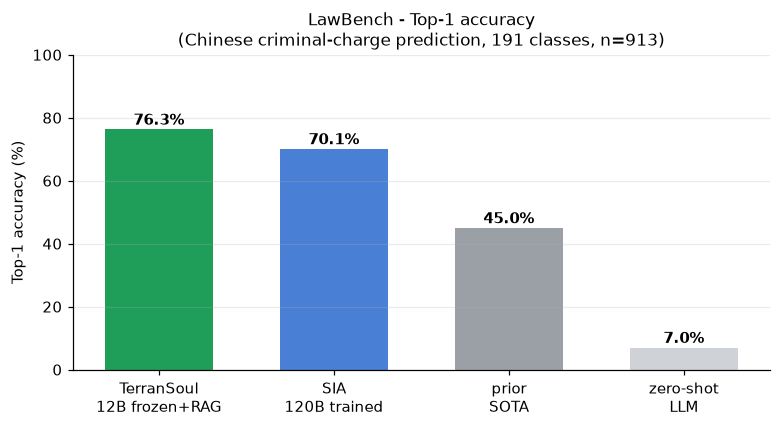
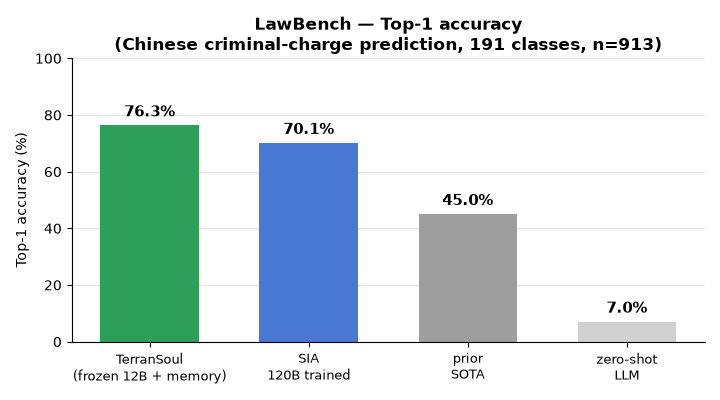
chore: mirror HTML docs + benchmark from TerranSoulApp@9d9633b

diff --git a/docs/LLM-Brain-Design-Research-Paper/index.html b/docs/LLM-Brain-Design-Research-Paper/index.html
@@ -303,7 +303,7 @@
         <text class="c-val" x="216" y="48">0 (flatlines)</text>
         <text class="c-cat" x="200" y="103" text-anchor="end">zorkgpt-default</text>
         <text class="c-val" x="216" y="103">0 (flatlines)</text>
-        <text class="c-cat" x="200" y="158" text-anchor="end">terransoul-brain (frozen 4B)</text>
+        <text class="c-cat" x="200" y="158" text-anchor="end">TerranSoul brain (frozen 4B)</text>
         <rect class="c-bar-hi" x="210" y="141" width="192" height="30"/>
         <rect class="c-bar-range" x="402" y="141" width="192" height="30"/>
         <text class="c-val-hi" x="600" y="161">10&ndash;20</text>
@@ -368,10 +368,10 @@
         <text class="c-tick" x="530" y="298" text-anchor="middle">0.10</text>
         <text class="c-tick" x="680" y="298" text-anchor="middle">0.40</text>
         <text class="c-cat" x="380" y="320" text-anchor="middle">delivery-drop rate p (categorical spacing)</text>
-        <line class="c-line c-line-hi" x1="450" y1="70" x2="482" y2="70"/>
-        <text class="c-legend" x="488" y="74">exception-safe pointer (shipped fix)</text>
-        <line class="c-line c-line-lo" x1="450" y1="92" x2="482" y2="92"/>
-        <text class="c-legend" x="488" y="96">blind pointer (pre-fix bug)</text>
+        <line class="c-line c-line-hi" x1="300" y1="70" x2="332" y2="70"/>
+        <text class="c-legend" x="338" y="74">TerranSoul exception-safe pointer (shipped fix)</text>
+        <line class="c-line c-line-lo" x1="300" y1="92" x2="332" y2="92"/>
+        <text class="c-legend" x="338" y="96">blind pointer (pre-fix bug)</text>
       </svg>
       <figcaption><span class="fignum">Fig 2</span>Delivery-reliability isolation (&sect;5.3). A no-LLM harness replays the <em>same</em> 396-move solution, 30 seeded trials per cell. The exception-safe pointer holds 350/350 at every drop rate; the blind pointer collapses and additionally kills the agent in 10&ndash;43% of trials. Model capacity is held fixed &mdash; there is no LLM in this ablation. Source: [<a href="#ref-21">21</a>].</figcaption>
     </figure>
@@ -499,10 +499,10 @@
         <text class="c-cat" x="200" y="200" text-anchor="end">SIA (W+H, 120B, trained)</text>
         <rect class="c-bar" x="210" y="179" width="315" height="34"/>
         <text class="c-val" x="531" y="200">70.1%</text>
-        <text class="c-cat" x="200" y="254" text-anchor="end">Frozen 12B + memory</text>
+        <text class="c-cat" x="200" y="254" text-anchor="end">TerranSoul (frozen 12B)</text>
         <rect class="c-bar-hi" x="210" y="233" width="343" height="34"/>
         <text class="c-val-hi" x="559" y="254">76.3%</text>
-        <text class="c-cat" x="200" y="308" text-anchor="end">DeepSeek-v4-pro (frozen)</text>
+        <text class="c-cat" x="200" y="308" text-anchor="end">TerranSoul (DeepSeek-v4-pro)</text>
         <rect class="c-bar-hi" x="210" y="287" width="360" height="34"/>
         <text class="c-val-hi" x="576" y="308">80.0%</text>
         <text class="c-tick" x="210" y="346" text-anchor="middle">0</text>
@@ -632,25 +632,6 @@
       <li id="ref-47" value="47"><a href="https://github.com/TerranSyn/TerranSoul/blob/main/benchmark/SELF-IMPROVE-COMPARISON.md">SIA head-to-head comparison artifact</a> (source-audited side-by-side; LawBench / TriMul / scRNA / MLE-Bench): <code>benchmark/SELF-IMPROVE-COMPARISON.md</code>. SIA = github.com/hexo-ai/sia (arXiv:2605.27276v2, MIT).</li>
     </ol>
 
-    <h2><span class="scene-num">Appendix A</span>Reproducing the bench</h2>
-    <pre><code># 1. MCP brain healthy on :7423
-node scripts/copilot-start-mcp.mjs            # auto-start or reuse the tray
-
-# 2. Smoke (no Z-machine, ~30 s against live MCP)
-python benchmark/scripts/zork-bench/smoke_self_improve.py   # expect all PASS
-
-# 3. Canonical AGI-pure run (Docker; jericho needs a Linux build env)
-docker build -t zork-bench --build-arg OLLAMA_BASE_HOST=172.17.0.1 \
-  -f benchmark/scripts/zork-bench/Dockerfile .
-docker run --rm \
-  -v "&lt;repo&gt;/benchmark/results/zork-bench:/out" \
-  -v "&lt;repo&gt;/mcp-data/mcp-token.txt:/mcp-data/mcp-token.txt:ro" \
-  zork-bench --arm terransoul-brain --episodes 2 --max-turns 100 \
-  --mcp-host host.docker.internal --mcp-port 7423
-
-# 4. Reliable-delivery demonstration (&sect;5.3): add -e TAUGHT_SOLUTION_DEMO=1 and --max-turns 500</code></pre>
-    <p class="small"><strong>Networking note.</strong> When Ollama runs inside WSL2 (NAT), the container reaches it at the Docker bridge gateway <code>172.17.0.1</code>, while the MCP tray (a Windows-native process) stays on <code>host.docker.internal</code>. Build with <code>OLLAMA_BASE_HOST</code> accordingly.</p>
-
     <div class="endmark">From Memo to Memory &middot; TerranSoul Research &middot; 2026</div>
   </article>
 </div>
@@ -665,154 +646,5 @@ docker run --rm \
   </div>
   <div>Authoritative source (markdown, source of truth): <code>docs/LLM-Brain-Design-Research-Paper.md</code> &middot; 2026-06.</div>
 </footer>
-
-<!-- ts-archflow: shared "how the brain works together" architecture-flow diagram.
-     The SAME self-contained block (markup + scoped styles + inline SVG) lives,
-     byte-identical, on every TerranSoul docs page so the runtime-loop picture is
-     consistent everywhere — keep in sync across pages. Conceptual only. -->
-<section class="ts-archflow" aria-label="How the brain works together">
-  <style>
-    .ts-archflow{position:relative;max-width:1060px;margin:48px auto;padding:22px 22px 18px;
-      box-sizing:border-box;color:#e9ecf5;font:14px/1.5 system-ui,"Segoe UI",Arimo,sans-serif;
-      background:rgba(15,17,26,.86);border:1px solid rgba(255,255,255,.16);border-radius:16px;
-      box-shadow:0 10px 40px rgba(0,0,0,.5);backdrop-filter:blur(8px);-webkit-backdrop-filter:blur(8px)}
-    .ts-archflow *{box-sizing:border-box}
-    .ts-archflow .ts-archflow-head{display:flex;align-items:baseline;gap:10px;flex-wrap:wrap;margin:0 0 4px}
-    .ts-archflow .ts-archflow-title{margin:0;font-size:17px;font-weight:700;letter-spacing:.2px;color:#f4f6fc}
-    .ts-archflow .ts-archflow-kicker{margin:0;font-size:11px;font-weight:700;letter-spacing:.14em;
-      text-transform:uppercase;color:#8ad7ff}
-    .ts-archflow .ts-archflow-svgwrap{width:100%;margin:10px 0 6px;overflow-x:auto}
-    .ts-archflow svg.ts-archflow-svg{display:block;width:100%;height:auto;min-width:680px}
-    .ts-archflow .ts-archflow-cap{margin:6px 2px 0;font-size:12.5px;color:#aeb6cc;text-align:center;font-style:italic}
-    .ts-archflow .tsaf-box{fill:rgba(31,36,54,.95);stroke:rgba(255,255,255,.22);stroke-width:1.2}
-    .ts-archflow .tsaf-box-core{fill:rgba(40,28,68,.97);stroke:rgba(168,130,255,.55);stroke-width:1.4}
-    .ts-archflow .tsaf-box-mem{fill:rgba(18,46,52,.96);stroke:rgba(95,214,196,.5);stroke-width:1.4}
-    .ts-archflow .tsaf-box-loop{fill:rgba(48,34,22,.96);stroke:rgba(245,179,96,.5);stroke-width:1.4}
-    .ts-archflow .tsaf-box-src{fill:rgba(22,26,40,.9);stroke:rgba(255,255,255,.16);stroke-width:1}
-    .ts-archflow .tsaf-t{fill:#eef1fa;font:600 13px/1.2 system-ui,"Segoe UI",sans-serif}
-    .ts-archflow .tsaf-tsub{fill:#aab2cc;font:500 10.5px/1.2 system-ui,"Segoe UI",sans-serif}
-    .ts-archflow .tsaf-lbl{fill:#c6cde2;font:600 10.5px/1.2 system-ui,"Segoe UI",sans-serif}
-    .ts-archflow .tsaf-lbl-loop{fill:#f0c489;font:600 10.5px/1.2 system-ui,"Segoe UI",sans-serif}
-    .ts-archflow .tsaf-edge{stroke:rgba(176,186,214,.7);stroke-width:1.6;fill:none}
-    .ts-archflow .tsaf-edge-loop{stroke:rgba(245,179,96,.8);stroke-width:1.6;fill:none;stroke-dasharray:6 4}
-    .ts-archflow .tsaf-edge-src{stroke:rgba(95,214,196,.55);stroke-width:1.3;fill:none;stroke-dasharray:3 3}
-  </style>
-  <div class="ts-archflow-head">
-    <p class="ts-archflow-kicker">How the brain works together</p>
-    <h2 class="ts-archflow-title">One coherent runtime loop</h2>
-  </div>
-  <div class="ts-archflow-svgwrap">
-    <svg class="ts-archflow-svg" viewBox="0 0 980 430" role="img"
-         aria-label="Runtime loop: a client request travels over the connecting nerve to focus and triage, then hybrid recall pulls from three-tier memory and the knowledge graph, fuses the signals and reranks them into a short grounded context, the language model core answers, the outcome is observed, and a self-improvement loop classifies the outcome and writes back into memory to close the loop. The brain's own sources also feed memory.">
-      <defs>
-        <marker id="tsafArrow" markerWidth="9" markerHeight="9" refX="7.5" refY="3.2" orient="auto">
-          <path d="M0,0 L8,3.2 L0,6.4 Z" fill="rgba(176,186,214,.85)"/>
-        </marker>
-        <marker id="tsafArrowLoop" markerWidth="9" markerHeight="9" refX="7.5" refY="3.2" orient="auto">
-          <path d="M0,0 L8,3.2 L0,6.4 Z" fill="rgba(245,179,96,.92)"/>
-        </marker>
-        <marker id="tsafArrowSrc" markerWidth="9" markerHeight="9" refX="7.5" refY="3.2" orient="auto">
-          <path d="M0,0 L8,3.2 L0,6.4 Z" fill="rgba(95,214,196,.8)"/>
-        </marker>
-      </defs>
-
-      <!-- top row: request, nerve, focus/triage, hybrid recall -->
-      <g>
-        <rect class="tsaf-box" x="14" y="44" width="150" height="58" rx="11"/>
-        <text class="tsaf-t" x="89" y="68" text-anchor="middle">Client request</text>
-        <text class="tsaf-tsub" x="89" y="86" text-anchor="middle">a question arrives</text>
-      </g>
-      <g>
-        <rect class="tsaf-box" x="206" y="44" width="150" height="58" rx="11"/>
-        <text class="tsaf-t" x="281" y="68" text-anchor="middle">Connecting nerve</text>
-        <text class="tsaf-tsub" x="281" y="86" text-anchor="middle">shared access channel</text>
-      </g>
-      <g>
-        <rect class="tsaf-box" x="398" y="44" width="150" height="58" rx="11"/>
-        <text class="tsaf-t" x="473" y="68" text-anchor="middle">Focus &amp; triage</text>
-        <text class="tsaf-tsub" x="473" y="86" text-anchor="middle">what matters now</text>
-      </g>
-      <g>
-        <rect class="tsaf-box" x="590" y="34" width="170" height="78" rx="11"/>
-        <text class="tsaf-t" x="675" y="60" text-anchor="middle">Hybrid recall</text>
-        <text class="tsaf-tsub" x="675" y="78" text-anchor="middle">fuse signals, rerank to a</text>
-        <text class="tsaf-tsub" x="675" y="92" text-anchor="middle">short grounded context</text>
-      </g>
-
-      <!-- core (right) -->
-      <g>
-        <rect class="tsaf-box-core" x="800" y="150" width="166" height="78" rx="11"/>
-        <text class="tsaf-t" x="883" y="178" text-anchor="middle">Language model core</text>
-        <text class="tsaf-tsub" x="883" y="196" text-anchor="middle">answers from context</text>
-        <text class="tsaf-tsub" x="883" y="210" text-anchor="middle">(local or cloud)</text>
-      </g>
-
-      <!-- memory + knowledge graph (center) -->
-      <g>
-        <rect class="tsaf-box-mem" x="404" y="172" width="180" height="78" rx="11"/>
-        <text class="tsaf-t" x="494" y="198" text-anchor="middle">Three-tier memory</text>
-        <text class="tsaf-tsub" x="494" y="216" text-anchor="middle">recent, durable, archived</text>
-        <text class="tsaf-tsub" x="494" y="230" text-anchor="middle">+ knowledge graph</text>
-      </g>
-
-      <!-- outcome observed (bottom right) -->
-      <g>
-        <rect class="tsaf-box" x="800" y="300" width="166" height="58" rx="11"/>
-        <text class="tsaf-t" x="883" y="324" text-anchor="middle">Outcome observed</text>
-        <text class="tsaf-tsub" x="883" y="342" text-anchor="middle">what actually happened</text>
-      </g>
-
-      <!-- self-improvement loop (bottom center) -->
-      <g>
-        <rect class="tsaf-box-loop" x="384" y="300" width="220" height="78" rx="11"/>
-        <text class="tsaf-t" x="494" y="326" text-anchor="middle">Self-improvement loop</text>
-        <text class="tsaf-tsub" x="494" y="344" text-anchor="middle">classify outcome, reinforce or</text>
-        <text class="tsaf-tsub" x="494" y="358" text-anchor="middle">quarantine, update memory</text>
-      </g>
-
-      <!-- brain's own sources (left) -->
-      <g>
-        <rect class="tsaf-box-src" x="14" y="180" width="150" height="92" rx="11"/>
-        <text class="tsaf-t" x="89" y="204" text-anchor="middle">Brain&#8217;s sources</text>
-        <text class="tsaf-tsub" x="89" y="224" text-anchor="middle">connectors</text>
-        <text class="tsaf-tsub" x="89" y="240" text-anchor="middle">repo brains</text>
-        <text class="tsaf-tsub" x="89" y="256" text-anchor="middle">peers</text>
-      </g>
-
-      <!-- edges: top row -->
-      <path class="tsaf-edge" d="M164,73 L204,73" marker-end="url(#tsafArrow)"/>
-      <path class="tsaf-edge" d="M356,73 L396,73" marker-end="url(#tsafArrow)"/>
-      <path class="tsaf-edge" d="M548,73 L588,73" marker-end="url(#tsafArrow)"/>
-      <text class="tsaf-lbl" x="184" y="36" text-anchor="middle">over the nerve</text>
-      <text class="tsaf-lbl" x="473" y="128" text-anchor="middle">need context</text>
-
-      <!-- recall pulls from memory + graph -->
-      <path class="tsaf-edge" d="M642,112 C612,140 560,150 540,170" marker-end="url(#tsafArrow)"/>
-      <text class="tsaf-lbl" x="612" y="148" text-anchor="middle">pull</text>
-
-      <!-- recall to core -->
-      <path class="tsaf-edge" d="M722,112 C790,128 830,134 858,148" marker-end="url(#tsafArrow)"/>
-      <text class="tsaf-lbl" x="812" y="120" text-anchor="middle">grounded context</text>
-
-      <!-- core to outcome -->
-      <path class="tsaf-edge" d="M883,228 L883,298" marker-end="url(#tsafArrow)"/>
-      <text class="tsaf-lbl" x="936" y="268" text-anchor="middle">answer</text>
-
-      <!-- outcome to self-improvement loop -->
-      <path class="tsaf-edge-loop" d="M800,332 L606,338" marker-end="url(#tsafArrowLoop)"/>
-      <text class="tsaf-lbl-loop" x="700" y="324" text-anchor="middle">observe</text>
-
-      <!-- self-improvement loop to memory (write back, close the loop) -->
-      <path class="tsaf-edge-loop" d="M494,300 L494,252" marker-end="url(#tsafArrowLoop)"/>
-      <text class="tsaf-lbl-loop" x="556" y="280" text-anchor="middle">write back</text>
-
-      <!-- sources to memory -->
-      <path class="tsaf-edge-src" d="M164,222 C260,224 320,222 402,216" marker-end="url(#tsafArrowSrc)"/>
-      <text class="tsaf-lbl" x="286" y="206" text-anchor="middle">feed</text>
-    </svg>
-  </div>
-  <p class="ts-archflow-cap">Many specialised parts, one coherent loop.</p>
-</section>
-<!-- /ts-archflow -->
 </body>
 </html>

diff --git a/benchmark/scripts/sia/make_charts.py b/benchmark/scripts/sia/make_charts.py
@@ -1,9 +1,10 @@
 """Generate SIA-suite head-to-head charts in the clean bar style of
 benchmark/charts/lawbench_headtohead.png (~720px wide). Reads the measured
-result JSONs and emits one PNG per benchmark. The LawBench chart already exists
-and is reused as-is (not regenerated). Infeasible / not-comparable benchmarks
-get a clearly-labeled greyed placeholder bar at 0 with an annotation -- never a
-fabricated TerranSoul value.
+result JSONs and emits one PNG per benchmark. Every TerranSoul series is
+labelled "TerranSoul" so each chart names whose result it is (LawBench and the
+memory-recall chart are generated here too, not reused as-is). Infeasible /
+not-comparable benchmarks get a clearly-labeled greyed placeholder bar at 0
+with an annotation -- never a fabricated TerranSoul value.
 """
 import json, os
 import matplotlib
@@ -155,10 +156,47 @@ def chart_zork():
     print("wrote", out)
 
 
+def chart_lawbench():
+    # SIA's headline benchmark. The TerranSoul bar (frozen 12B + memory-RAG)
+    # is named so readers can tell whose 76.3% it is. Values unchanged from the
+    # measured run (results/sia/lawbench_terransoul_full.json) and SIA's paper.
+    fig, ax = base_fig(
+        "LawBench — Top-1 accuracy",
+        "(Chinese criminal-charge prediction, 191 classes, n=913)",
+        "Top-1 accuracy (%)", 100)
+    labels = ["TerranSoul\n(frozen 12B + memory)", "SIA\n120B trained", "prior\nSOTA", "zero-shot\nLLM"]
+    values = [76.3, 70.1, 45.0, 7.0]
+    colors = [TS_GREEN, SIA_BLUE, SOTA_GREY, LIGHT_GREY]
+    bars(ax, labels, values, colors, lambda v: f"{v:.1f}%")
+    fig.tight_layout()
+    out = os.path.join(CHARTS, "lawbench_headtohead.png")
+    fig.savefig(out)
+    plt.close(fig)
+    print("wrote", out)
+
+
+def chart_memory_recall():
+    # The retrieval axis SIA has no analog for; all three bars are TerranSoul's
+    # LongMemEval-S recall, so each is labelled TerranSoul.
+    fig, ax = base_fig(
+        "TerranSoul memory recall — LongMemEval-S",
+        "(SIA ships no memory/retrieval — no comparable number)",
+        "Recall (%)", 108)
+    labels = ["TerranSoul\nR@5", "TerranSoul\nR@10", "TerranSoul\nR@20"]
+    values = [98.6, 99.8, 100.0]
+    bars(ax, labels, values, [TS_GREEN, TS_GREEN, TS_GREEN], lambda v: f"{v:.1f}%")
+    fig.tight_layout()
+    out = os.path.join(CHARTS, "terransoul_memory_recall.png")
+    fig.savefig(out)
+    plt.close(fig)
+    print("wrote", out)
+
+
 if __name__ == "__main__":
+    chart_lawbench()
+    chart_memory_recall()
     chart_answer_quality()
     chart_zork()
     chart_trimul()
     chart_scrna()
     chart_mlebench()
-    print("LawBench chart reused as-is:", os.path.join(CHARTS, "lawbench_headtohead.png"))
